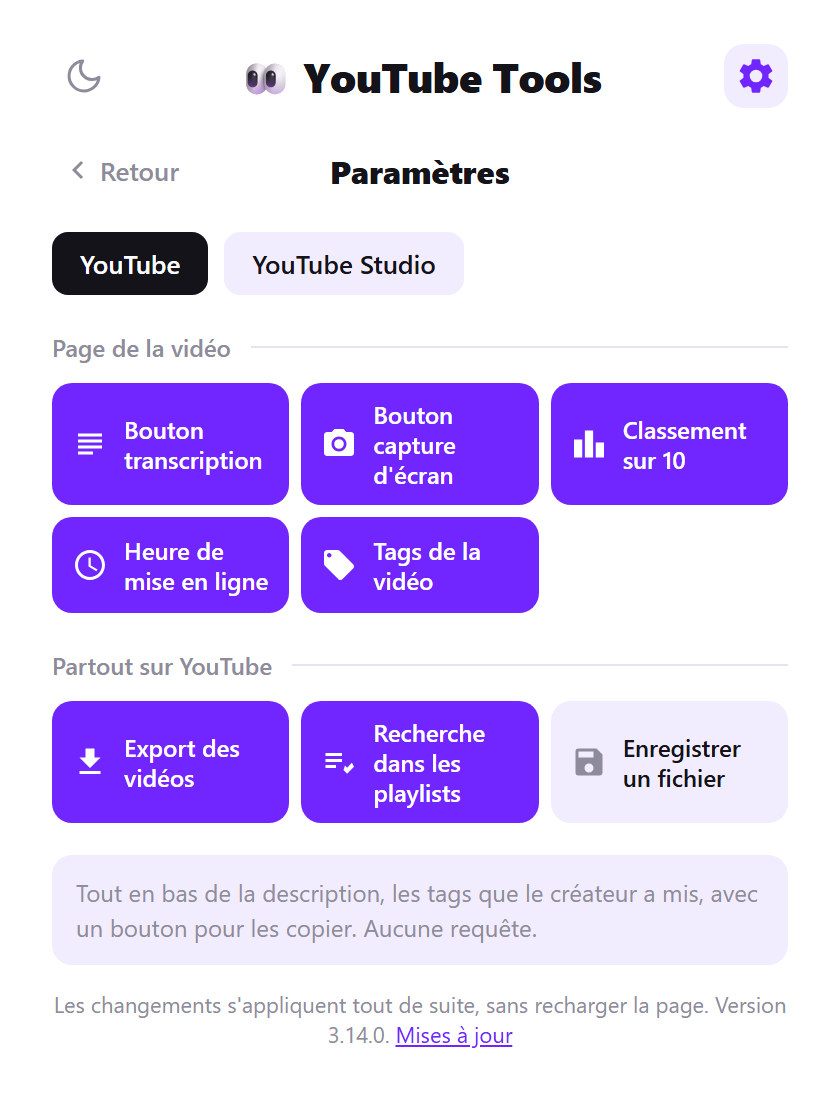
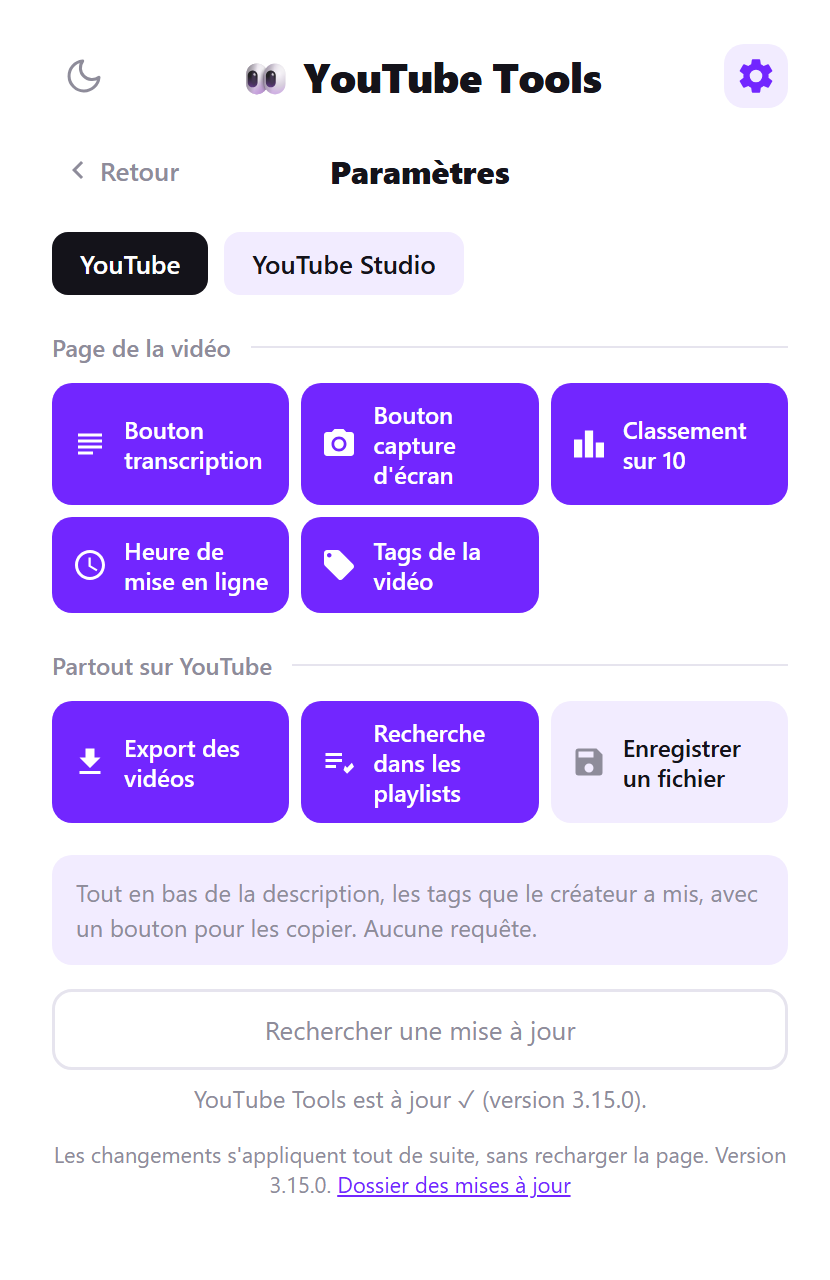
Parametres : bouton « Rechercher une mise a jour »
Verifie sur place, sans quitter le popup : « a jour » avec la version, ou
« Version x disponible », et le bouton devient « Mettre a jour » (ouvre la
page d'installation, bandeau et pastille MAJ mis a jour). Dit aussi quand
GitHub ne repond pas, ou quand l'extension vient d'une boutique.
Le lien du pied devient « Dossier des mises a jour ».

diff --git a/tests/test-popup.js b/tests/test-popup.js
@@ -14,7 +14,7 @@ const verifie = (nom, ok, detail) => {
   console.log((ok ? '  OK   ' : '  ECHEC') + ' ' + nom + (ok || detail === undefined ? '' : '   -> ' + JSON.stringify(detail)));
 };
 
-async function popup({ ongletActif = 'https://www.youtube.com/watch?v=abc', reglages } = {}) {
+async function popup({ ongletActif = 'https://www.youtube.com/watch?v=abc', reglages, installType = 'normal', github = null } = {}) {
   const html = fs.readFileSync(EXT + 'popup.html', 'utf8').replace(/<script[^>]*><\/script>/g, '');
   const vc = new VirtualConsole();
   const erreurs = [];
@@ -31,11 +31,20 @@ async function popup({ ongletActif = 'https://www.youtube.com/watch?v=abc', regl
     tabs: {
       query: async (q) => (q && q.active ? [{ id: 1, url: ongletActif }] : []),
       sendMessage: async () => { throw new Error('pas de script'); },
-      create: async () => {}
+      create: async (o) => { ouverts.push(o.url); }
     },
     runtime: { getManifest: () => ({ version: '3.12.0' }), getURL: (p) => p },
-    management: { getSelf: async () => ({ installType: 'normal' }) },
-    action: { setBadgeText: () => {}, setBadgeBackgroundColor: () => {} }
+    management: { getSelf: async () => ({ installType }) },
+    action: { setBadgeText: (o) => { badge.texte = o.text; }, setBadgeBackgroundColor: () => {} }
+  };
+  // version.json de GitHub : { version } pour une reponse, null pour « injoignable ».
+  const ouverts = [];
+  const badge = {};
+  let lectures = 0;
+  window.fetch = async () => {
+    lectures++;
+    if (!github) throw new Error('hors ligne');
+    return { ok: true, json: async () => github };
   };
   window.addEventListener('error', (e) => erreurs.push(String(e.message)));
   try {
@@ -43,7 +52,7 @@ async function popup({ ongletActif = 'https://www.youtube.com/watch?v=abc', regl
     window.eval(fs.readFileSync(EXT + 'popup.js', 'utf8'));
   } catch (e) { erreurs.push(String(e.message)); }
   await sleep(80);
-  return { window, doc: window.document, stock, erreurs };
+  return { window, doc: window.document, stock, erreurs, ouverts, badge, lectures: () => lectures };
 }
 
 const clic = (w, el) => el.dispatchEvent(new w.MouseEvent('click', { bubbles: true }));
@@ -126,6 +135,38 @@ const clic = (w, el) => el.dispatchEvent(new w.MouseEvent('click', { bubbles: tr
     clic(p.window, p.doc.getElementById('ouvrirReglages'));
     verifie('l’onglet Studio est affiché d’emblée', p.doc.querySelector('.site[data-site=studio]').getAttribute('aria-selected') === 'true');
     p.window.close();
+  }
+
+  console.log('\n4. Paramètres > « Rechercher une mise à jour »');
+  {
+    const chercher = async (opts) => {
+      const p = await popup(opts);
+      clic(p.window, p.doc.getElementById('ouvrirReglages'));
+      const avant = p.lectures();
+      clic(p.window, p.doc.getElementById('chercherMaj'));
+      await sleep(60);
+      return { p, b: p.doc.getElementById('chercherMaj'), etat: p.doc.getElementById('chercherMajEtat'), lu: p.lectures() > avant };
+    };
+
+    const dispo = await chercher({ installType: 'development', github: { version: '3.13.0', notes: 'Nouveautés' } });
+    verifie('le clic interroge GitHub', dispo.lu);
+    verifie('version trouvée, annoncée sur place', dispo.etat.textContent === 'Version 3.13.0 disponible (tu as la 3.12.0).', dispo.etat.textContent);
+    verifie('le bouton devient « Mettre à jour »', dispo.b.textContent === 'Mettre à jour' && dispo.b.classList.contains('is-dispo'), dispo.b.textContent);
+    verifie('bandeau de l’accueil et pastille MAJ', !dispo.p.doc.getElementById('maj').hidden && dispo.p.badge.texte === 'MAJ');
+    clic(dispo.p.window, dispo.b);
+    verifie('« Mettre à jour » ouvre la page d’installation', dispo.p.ouverts.includes('update.html'), dispo.p.ouverts);
+    dispo.p.window.close();
+
+    const ajour = await chercher({ installType: 'development', github: { version: '3.12.0' } });
+    verifie('déjà à jour : dit la version', ajour.etat.textContent === 'YouTube Tools est à jour ✓ (version 3.12.0).', ajour.etat.textContent);
+    verifie('déjà à jour : le bouton reste « Rechercher »', ajour.b.textContent === 'Rechercher une mise à jour' && !ajour.b.disabled);
+
+    const horsLigne = await chercher({ installType: 'development', github: null });
+    verifie('GitHub injoignable : le dit', /ne répond pas/.test(horsLigne.etat.textContent), horsLigne.etat.textContent);
+
+    const boutique = await chercher({ installType: 'normal', github: { version: '9.0.0' } });
+    verifie('installée depuis une boutique : pas de recherche GitHub', !boutique.lu);
+    verifie('installée depuis une boutique : l’explique', /boutique/.test(boutique.etat.textContent), boutique.etat.textContent);
   }
 
   console.log('\n' + (echecs ? echecs + ' ECHEC(S)' : 'tout passe'));

diff --git a/youtube-tools/popup.js b/youtube-tools/popup.js
@@ -509,18 +509,72 @@ function bandeauMaj(info) {
   if (dispo) $('majTexte').textContent = `Version ${info.latest} disponible`;
 }
 
-// Parametres > « Mises a jour » : la meme page, pour choisir le dossier quand on veut.
+// Parametres > « Dossier des mises a jour » : la meme page, pour choisir le dossier quand on veut.
 $('ouvrirMaj').addEventListener('click', () => chrome.tabs.create({ url: chrome.runtime.getURL('update.html') }));
 
-$('majBtn').addEventListener('click', () => {
+$('majBtn').addEventListener('click', () => ouvrirPageMaj());
+
+/** Bandeau de l'accueil et pastille « MAJ » de l'icone, d'apres une reponse de GitHub. */
+function appliquerMaj(info) {
+  bandeauMaj(info);
+  chrome.action.setBadgeText({ text: info.disponible ? 'MAJ' : '' });
+  chrome.action.setBadgeBackgroundColor({ color: '#7226ff' });
+}
+
+const ouvrirPageMaj = () => {
   chrome.tabs.create({ url: chrome.runtime.getURL('update.html') });
   window.close();
+};
+
+/*
+ * Parametres > « Rechercher une mise a jour » : la verification se fait sur
+ * place, sans quitter le popup. Une version trouvee, le meme bouton devient
+ * « Mettre a jour » et ouvre la page d'installation.
+ */
+let majTrouvee = null;
+
+function etatRecherche(texte) {
+  $('chercherMajEtat').hidden = !texte;
+  $('chercherMajEtat').textContent = texte || '';
+}
+
+$('chercherMaj').addEventListener('click', async () => {
+  const bouton = $('chercherMaj');
+  if (majTrouvee) { ouvrirPageMaj(); return; }
+
+  const U = window.__yttoolsUpdate;
+  const actuelle = chrome.runtime.getManifest().version;
+  bouton.disabled = true;
+  bouton.textContent = 'Recherche…';
+  etatRecherche('');
+
+  let info = null;
+  try { info = await U.verifier(); } catch { info = null; }
+  bouton.disabled = false;
+
+  if (!info) {
+    bouton.textContent = 'Rechercher une mise à jour';
+    const local = await U.estDossierLocal().catch(() => false);
+    etatRecherche(local
+      ? 'GitHub ne répond pas pour le moment. Réessaie dans un instant.'
+      : 'Extension installée depuis une boutique : ses mises à jour passent par elle.');
+    return;
+  }
+
+  appliquerMaj(info);
+  if (info.disponible) {
+    majTrouvee = info;
+    bouton.textContent = 'Mettre à jour';
+    bouton.classList.add('is-dispo');
+    etatRecherche(`Version ${info.latest} disponible (tu as la ${actuelle}).`);
+  } else {
+    bouton.textContent = 'Rechercher une mise à jour';
+    etatRecherche(`YouTube Tools est à jour ✓ (version ${actuelle}).`);
+  }
 });
 
 window.__yttoolsUpdate.dernierConnu().then(bandeauMaj);
 window.__yttoolsUpdate.verifier().then((info) => {
   if (!info) return;                          // hors ligne : on garde l'etat connu
-  bandeauMaj(info);
-  chrome.action.setBadgeText({ text: info.disponible ? 'MAJ' : '' });
-  chrome.action.setBadgeBackgroundColor({ color: '#7226ff' });
+  appliquerMaj(info);
 });

diff --git a/youtube-tools/popup.css b/youtube-tools/popup.css
@@ -328,5 +328,12 @@ input[type="text"]:focus { border-bottom-color: var(--accent); }
   font-size: 12px;
   line-height: 1.45;
 }
+/* Paramètres > « Rechercher une mise à jour » : discret, plein quand une version attend. */
+.reglages-maj { margin-top: 12px; }
+.reglages-maj .ghost { margin-top: 0; }
+.reglages-maj .ghost[disabled] { opacity: .6; cursor: progress; }
+.reglages-maj .ghost.is-dispo { border-color: var(--accent); background: var(--accent); color: #fff; font-weight: 700; }
+.reglages-maj .ghost.is-dispo:hover { background: var(--accent-hover); color: #fff; }
+.reglages-maj-etat { margin: 6px 0 0; text-align: center; color: var(--muted); font-size: 12px; line-height: 1.4; }
 .reglages-pied { margin: 12px 0 0; text-align: center; color: var(--muted); font-size: 11px; }
 .reglages-lien { padding: 0; border: 0; background: none; color: var(--accent); font: inherit; text-decoration: underline; cursor: pointer; }

diff --git a/youtube-tools/popup.html b/youtube-tools/popup.html
@@ -54,8 +54,14 @@
       <div id="reglagesListe" class="reglages-liste" role="tabpanel"></div>
 
       <p id="reglagesAide" class="reglages-aide" aria-live="polite"></p>
+
+      <div class="reglages-maj">
+        <button id="chercherMaj" class="ghost" type="button">Rechercher une mise à jour</button>
+        <p id="chercherMajEtat" class="reglages-maj-etat" role="status" hidden></p>
+      </div>
+
       <p class="reglages-pied">Les changements s'appliquent tout de suite, sans recharger la page. <span id="version"></span>
-        <button id="ouvrirMaj" class="reglages-lien" type="button">Mises à jour</button></p>
+        <button id="ouvrirMaj" class="reglages-lien" type="button">Dossier des mises à jour</button></p>
     </section>
 
     <div id="vueAccueil">

diff --git a/youtube-tools/update.html b/youtube-tools/update.html
@@ -37,7 +37,7 @@
           </li>
           <li>À la ligne <b>File System Access API</b>, choisis <b>Enabled</b>.</li>
           <li>Clique <b>Relaunch</b> en bas : Brave redémarre et rouvre tes onglets.</li>
-          <li>Reviens ici (popup → Paramètres → <b>Mises à jour</b>) et clique <b>Choisir le dossier</b>.</li>
+          <li>Reviens ici (popup → Paramètres → <b>Dossier des mises à jour</b>) et clique <b>Choisir le dossier</b>.</li>
         </ol>
       </div>
       <button id="choisirDossier" class="ghost" type="button">Choisir le dossier</button>

diff --git a/README.md b/README.md
@@ -207,7 +207,7 @@ La **mise à jour automatique** lit `version.json` sur GitHub, sans cookie. Elle
 
 ## Mise à jour automatique
 
-Au démarrage du navigateur et à chaque ouverture du popup, l'extension lit [`version.json`](version.json) sur GitHub. Si une version plus récente existe :
+Au démarrage du navigateur et à chaque ouverture du popup, l'extension lit [`version.json`](version.json) sur GitHub. Tu peux aussi lancer la recherche toi-même : **Paramètres → Rechercher une mise à jour** répond sur place (« à jour », ou « Version x disponible », et le bouton devient **Mettre à jour**). Si une version plus récente existe :
 
 1. une pastille **MAJ** s'affiche sur l'icône, et un bandeau **Version x disponible** en haut du popup ;
 2. **Mettre à jour** ouvre une page dédiée, qui montre les nouveautés ;
@@ -215,7 +215,7 @@ Au démarrage du navigateur et à chaque ouverture du popup, l'extension lit [`v
 
 Aucune API ne permet à une extension de réécrire ses propres fichiers : on passe par l'accès aux fichiers du navigateur. Il faut donc lui montrer **une fois** le dossier `youtube-tools` (celui qui contient `manifest.json`) : dès l'installation, sur la page **Bienvenue**, ou à la première mise à jour si tu l'as passée. Il est ensuite mémorisé ; la page de mise à jour dit lequel et permet d'en choisir un autre. Chrome peut encore te demander de **confirmer l'accès** d'un clic (s'il propose **Autoriser à chaque visite**, choisis-le) : il ne laisse aucune extension modifier des fichiers sans que tu l'aies vu.
 
-La page de mise à jour s'ouvre aussi depuis le popup, **Paramètres → Mises à jour**.
+La page de mise à jour s'ouvre aussi depuis le popup, avec le lien **Paramètres → Dossier des mises à jour**, pour changer de dossier quand tu veux.
 
 Sur **Brave**, l'accès aux dossiers est coupé par défaut : ouvre `brave://flags/#file-system-access-api`, mets **File System Access API** sur **Enabled** et relance Brave. Sans ça, la page le détecte et l'explique, et les mises à jour restent possibles à la main.
 
